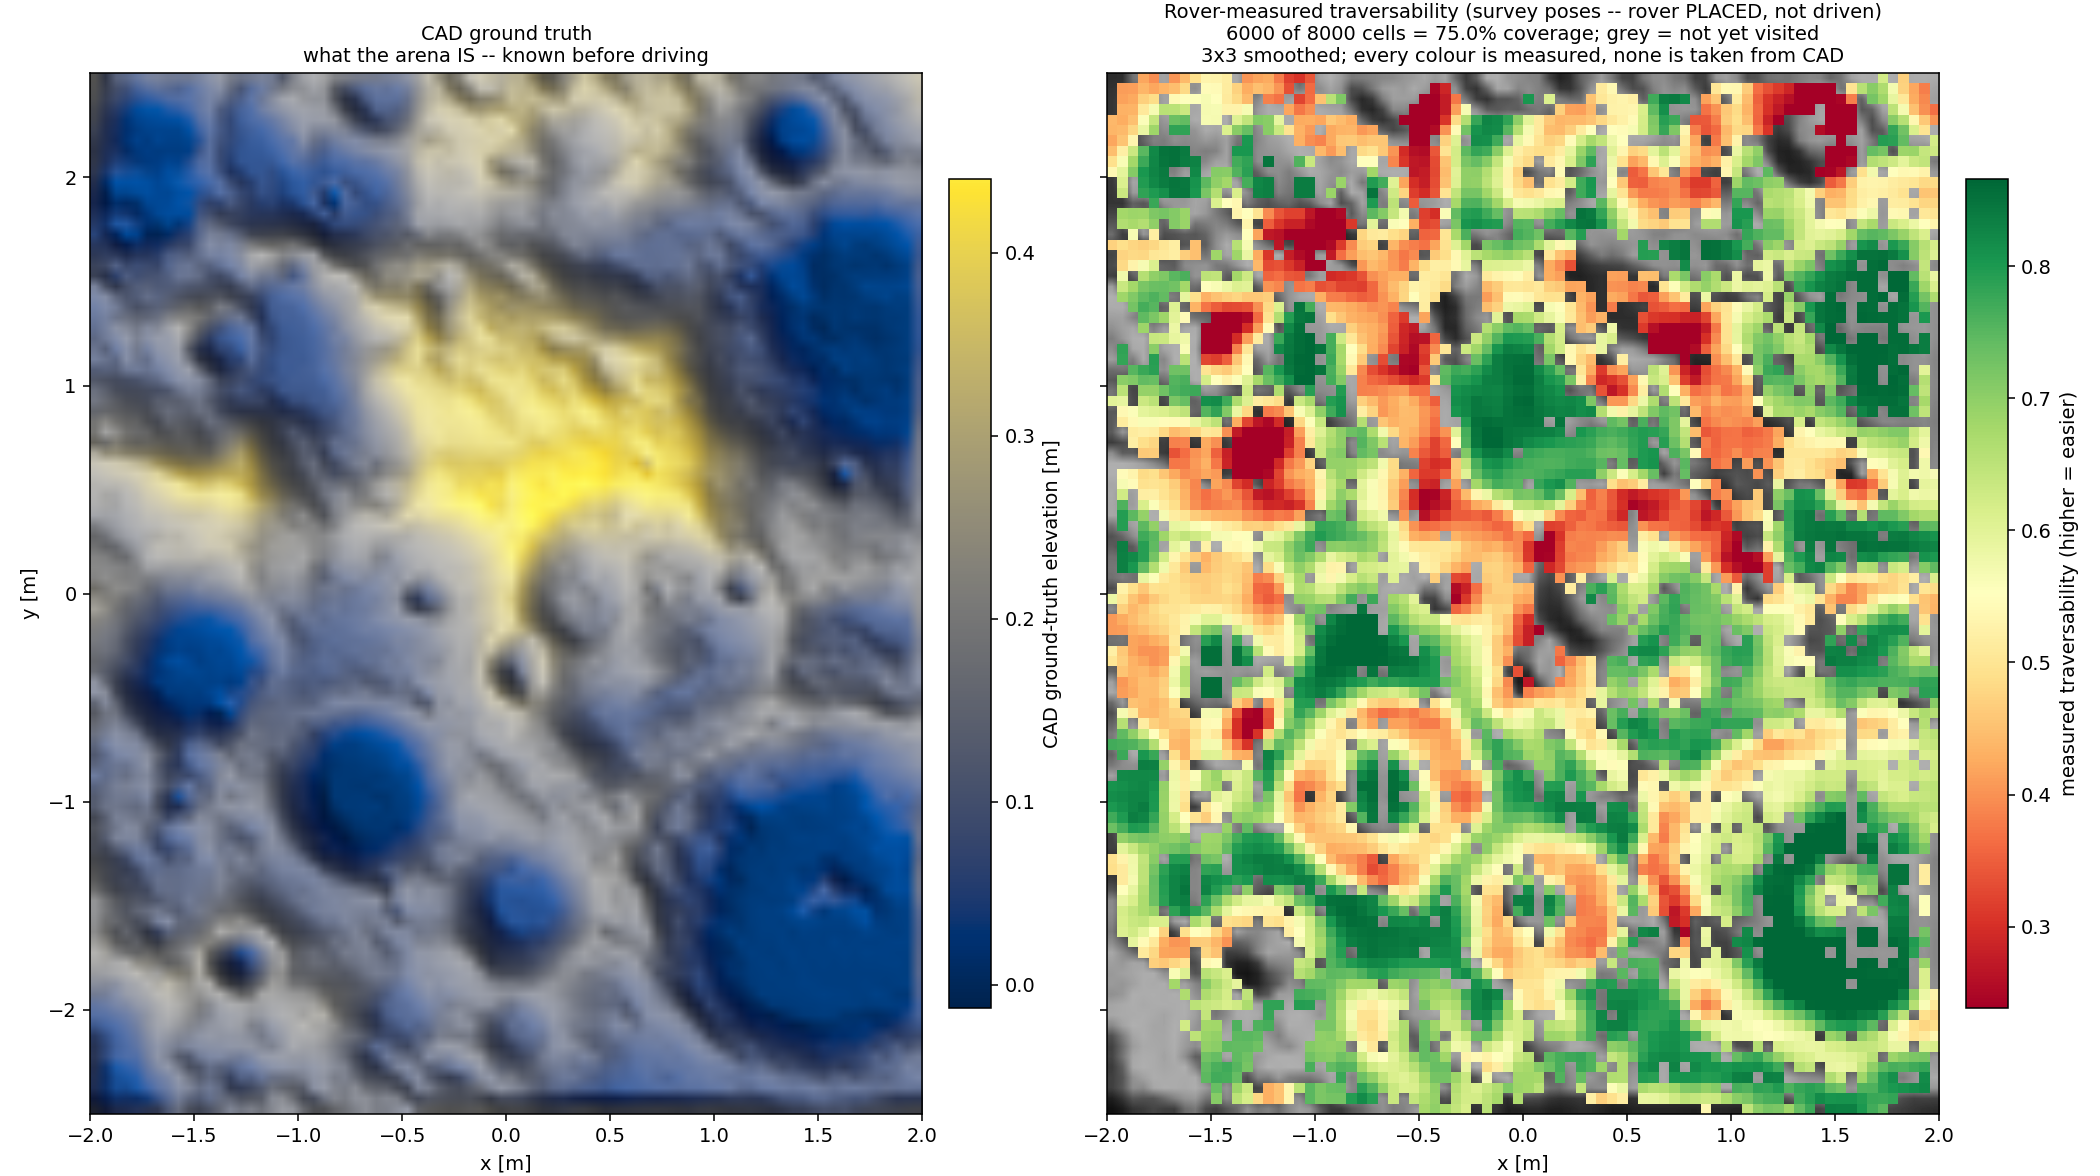
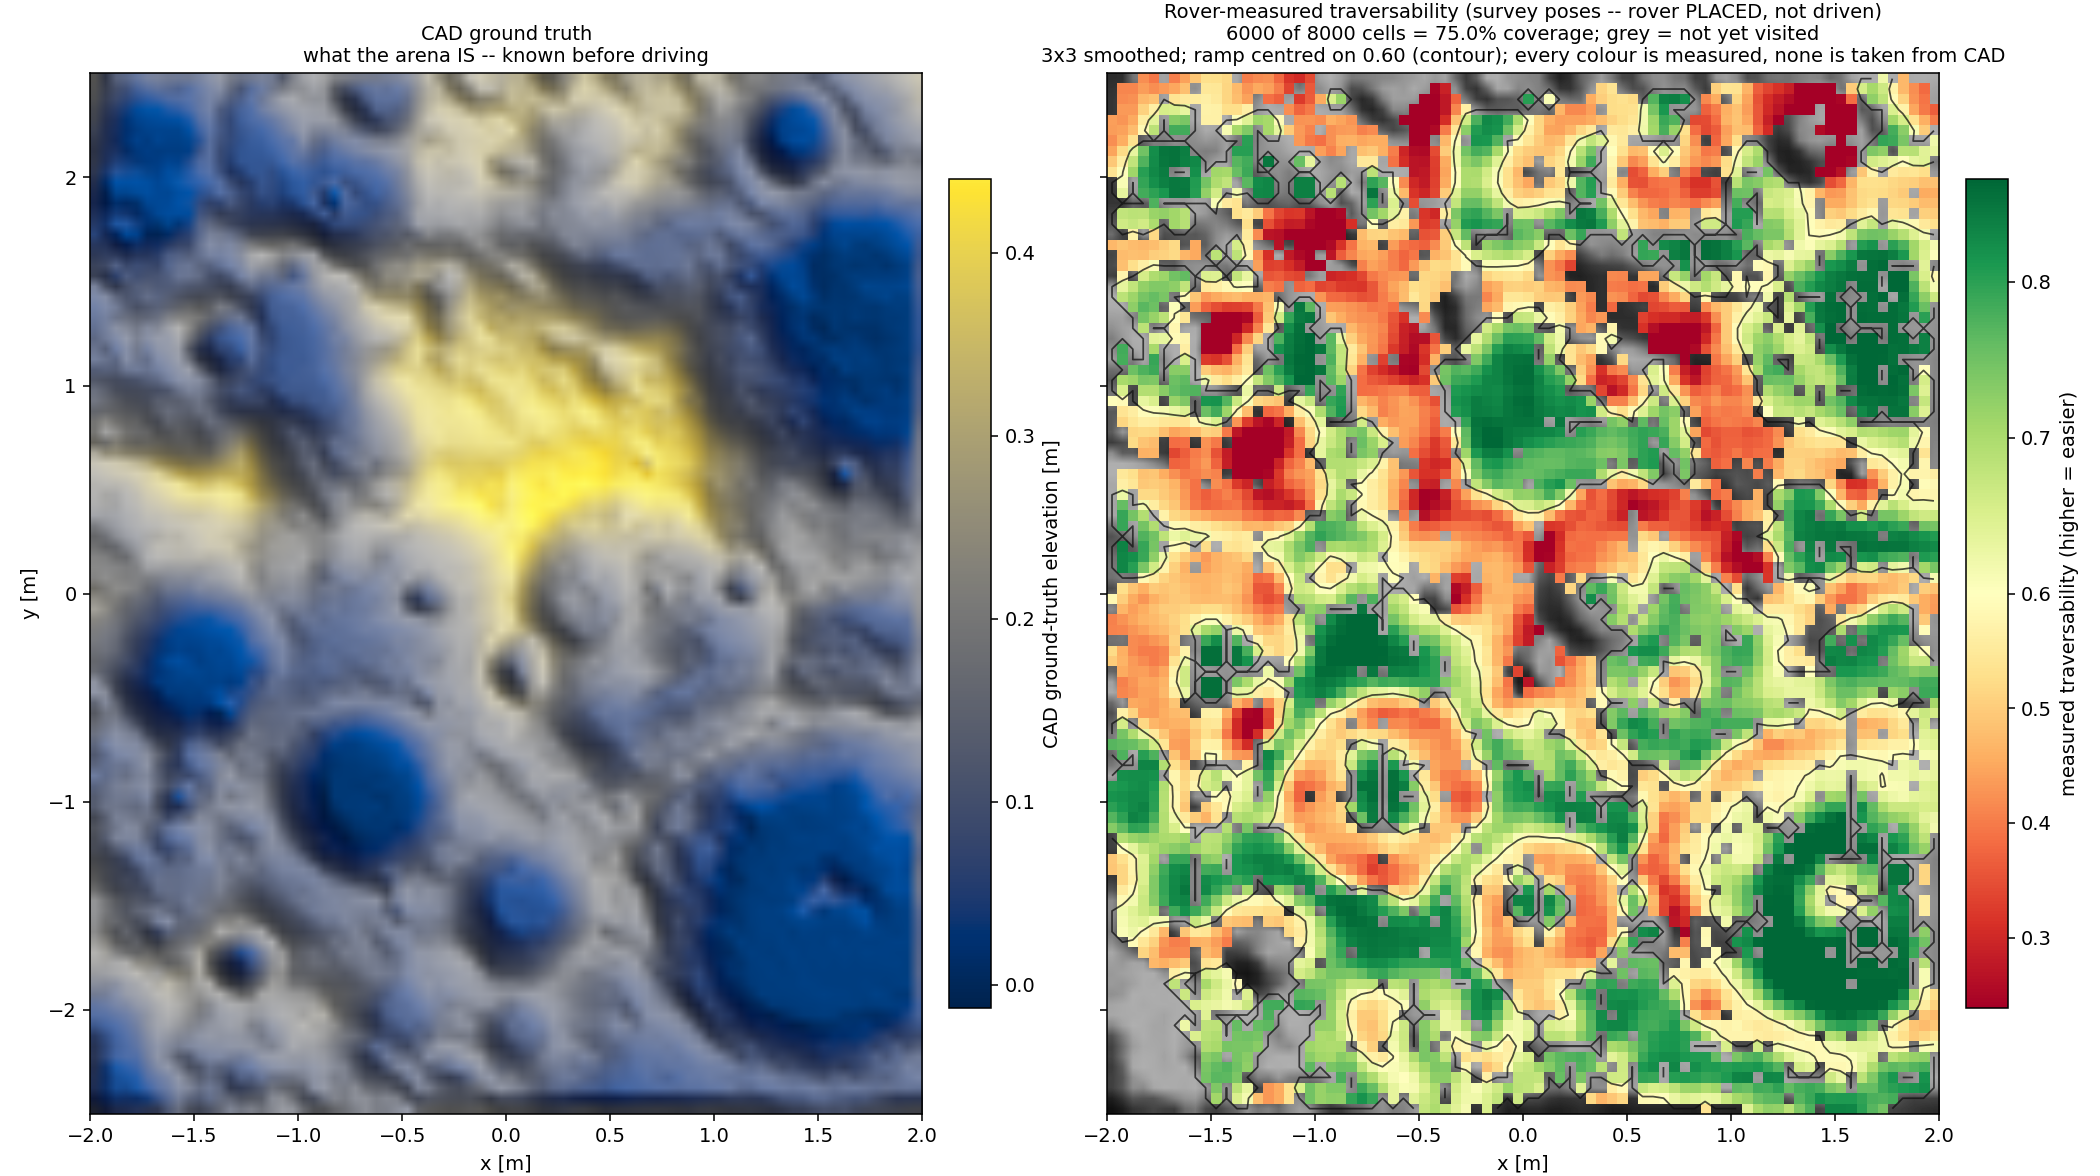
Centre the map colour ramp on a 0.60 threshold
A linear ramp over the data range still read as mostly warm, because the
score distribution is broad and slightly low-centred (median 0.618). With
the ramp centred on 0.60 the survey splits 47.4% below / 52.6% above, so
the eye sees the spread rather than a wall of red, and the crater-rim
structure stays legible against the CAD slope panel.

The boundary is drawn as a contour rather than left implied by hue, since
a hue boundary on a continuous ramp is not something a reader can locate
precisely.

Presentation only, and the help text and README both say so: it changes no
score, and it is NOT the CLAUDE.md 1.4 verdict boundary. That boundary
needs sigma_0 and the ramp test, both still pending -- picking a number
here because it looks better would be exactly the desk-decided threshold
docs/pending.md exists to prevent.

Changed region(s): [[0.4952, 0.0306, 0.9595, 0.949], [0.9595, 0.6735, 0.9905, 0.7041], [0.9595, 0.2143, 0.9905, 0.2449]]

diff --git a/tools/render_arena_map.py b/tools/render_arena_map.py
@@ -26,7 +26,7 @@ import matplotlib
 matplotlib.use('Agg')
 import matplotlib.pyplot as plt
 import numpy as np
-from matplotlib.colors import LightSource
+from matplotlib.colors import LightSource, TwoSlopeNorm
 
 
 def accumulate(rows, truth, statistic='mean'):
@@ -164,6 +164,14 @@ def main(argv=None):
         help='colour-scale floor; default is the 2nd percentile of the data',
     )
     parser.add_argument('--vmax', type=float, default=None)
+    parser.add_argument(
+        '--threshold', type=float, default=None,
+        help=('score treated as the neutral point: the colour ramp is centred '
+              'here so below reads red and above reads green, and the boundary '
+              'is drawn as a contour. Presentation only -- it does not change '
+              'any score, and it is NOT the CLAUDE.md 1.4 verdict boundary, '
+              'which depends on measurements still pending (docs/pending.md).'),
+    )
     args = parser.parse_args(argv)
 
     truth = np.load(args.truth)
@@ -237,9 +245,27 @@ def main(argv=None):
     )
     ax.imshow(hill, cmap='gray', origin='lower', extent=extent,
               vmin=-0.1, vmax=1.5, interpolation='bilinear')
-    img = ax.imshow(np.ma.masked_invalid(shown), cmap='RdYlGn', origin='lower',
-                    extent=extent, vmin=vmin, vmax=vmax,
-                    interpolation='nearest')
+    if args.threshold is not None:
+        centre = float(args.threshold)
+        # TwoSlopeNorm needs the centre strictly inside the range.
+        lo = min(vmin, centre - 1e-3)
+        hi = max(vmax, centre + 1e-3)
+        norm = TwoSlopeNorm(vcenter=centre, vmin=lo, vmax=hi)
+        img = ax.imshow(np.ma.masked_invalid(shown), cmap='RdYlGn',
+                        origin='lower', extent=extent, norm=norm,
+                        interpolation='nearest')
+        below = float((finite < centre).mean())
+        print(f'threshold {centre:.2f}: below {100 * below:.1f}%, '
+              f'above {100 * (1 - below):.1f}%')
+        # Draw the boundary itself so it is legible, not just implied by hue.
+        ys = np.linspace(extent[2] + res / 2, extent[3] - res / 2, ny)
+        xs = np.linspace(extent[0] + res / 2, extent[1] - res / 2, nx)
+        ax.contour(xs, ys, np.nan_to_num(shown, nan=centre),
+                   levels=[centre], colors='#111', linewidths=0.9, alpha=0.75)
+    else:
+        img = ax.imshow(np.ma.masked_invalid(shown), cmap='RdYlGn',
+                        origin='lower', extent=extent, vmin=vmin, vmax=vmax,
+                        interpolation='nearest')
 
     if len(path) and args.mode == 'driven':
         ax.plot(path[:, 0], path[:, 1], '-', color='#0b2fb5', lw=2.0,
@@ -256,6 +282,8 @@ def main(argv=None):
            else 'survey poses -- rover PLACED, not driven')
     smoothing = (f'{2 * args.smooth + 1}x{2 * args.smooth + 1} smoothed'
                  if args.smooth >= 1 else 'unsmoothed')
+    if args.threshold is not None:
+        smoothing += f'; ramp centred on {args.threshold:.2f} (contour)'
     ax.set_title(
         f'Rover-measured traversability ({how})\n'
         f'{measured.sum()} of {measured.size} cells = '

diff --git a/docs/figures/README.md b/docs/figures/README.md
@@ -34,6 +34,14 @@ visible.
 
 Two presentation choices, both constrained so they cannot overstate the result:
 
+**The ramp is centred on 0.60**, so scores below it read red and above it read
+green, and the boundary is drawn as a contour. This is a **presentation** choice:
+it changes no score, and it is *not* the CLAUDE.md §1.4 verdict boundary — that
+one depends on σ₀ and the ramp test, both still pending (`docs/pending.md`).
+Centred this way the survey splits 47.4% below / 52.6% above, so the eye sees the
+spread instead of a wall of red. Pass `--threshold` to move it or omit it for a
+plain linear ramp.
+
 **Colour scale follows the data.** The first version of these figures fixed the
 ramp at 0.60–1.00, which clipped **47.4% of cells to the bottom red** and left
 the top tenth of the ramp for 0.7% of cells — the map looked uniformly hostile
